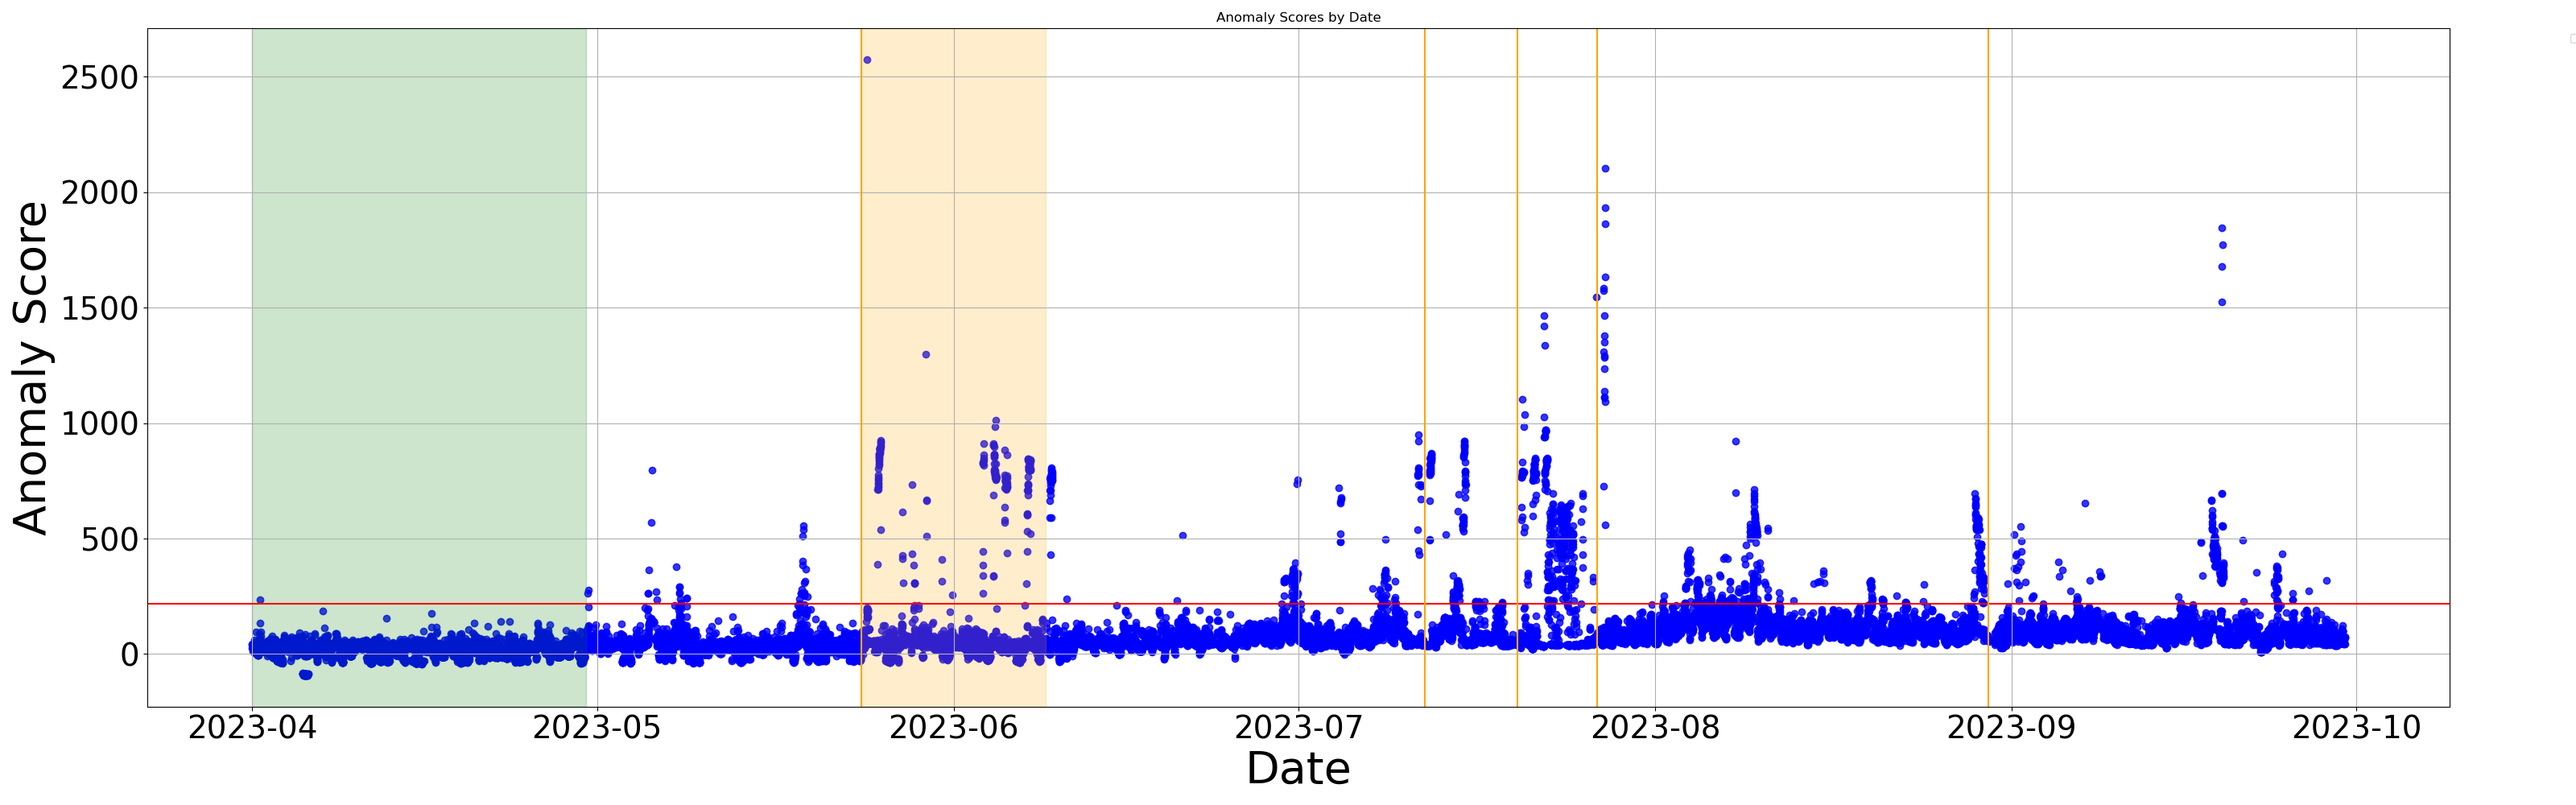
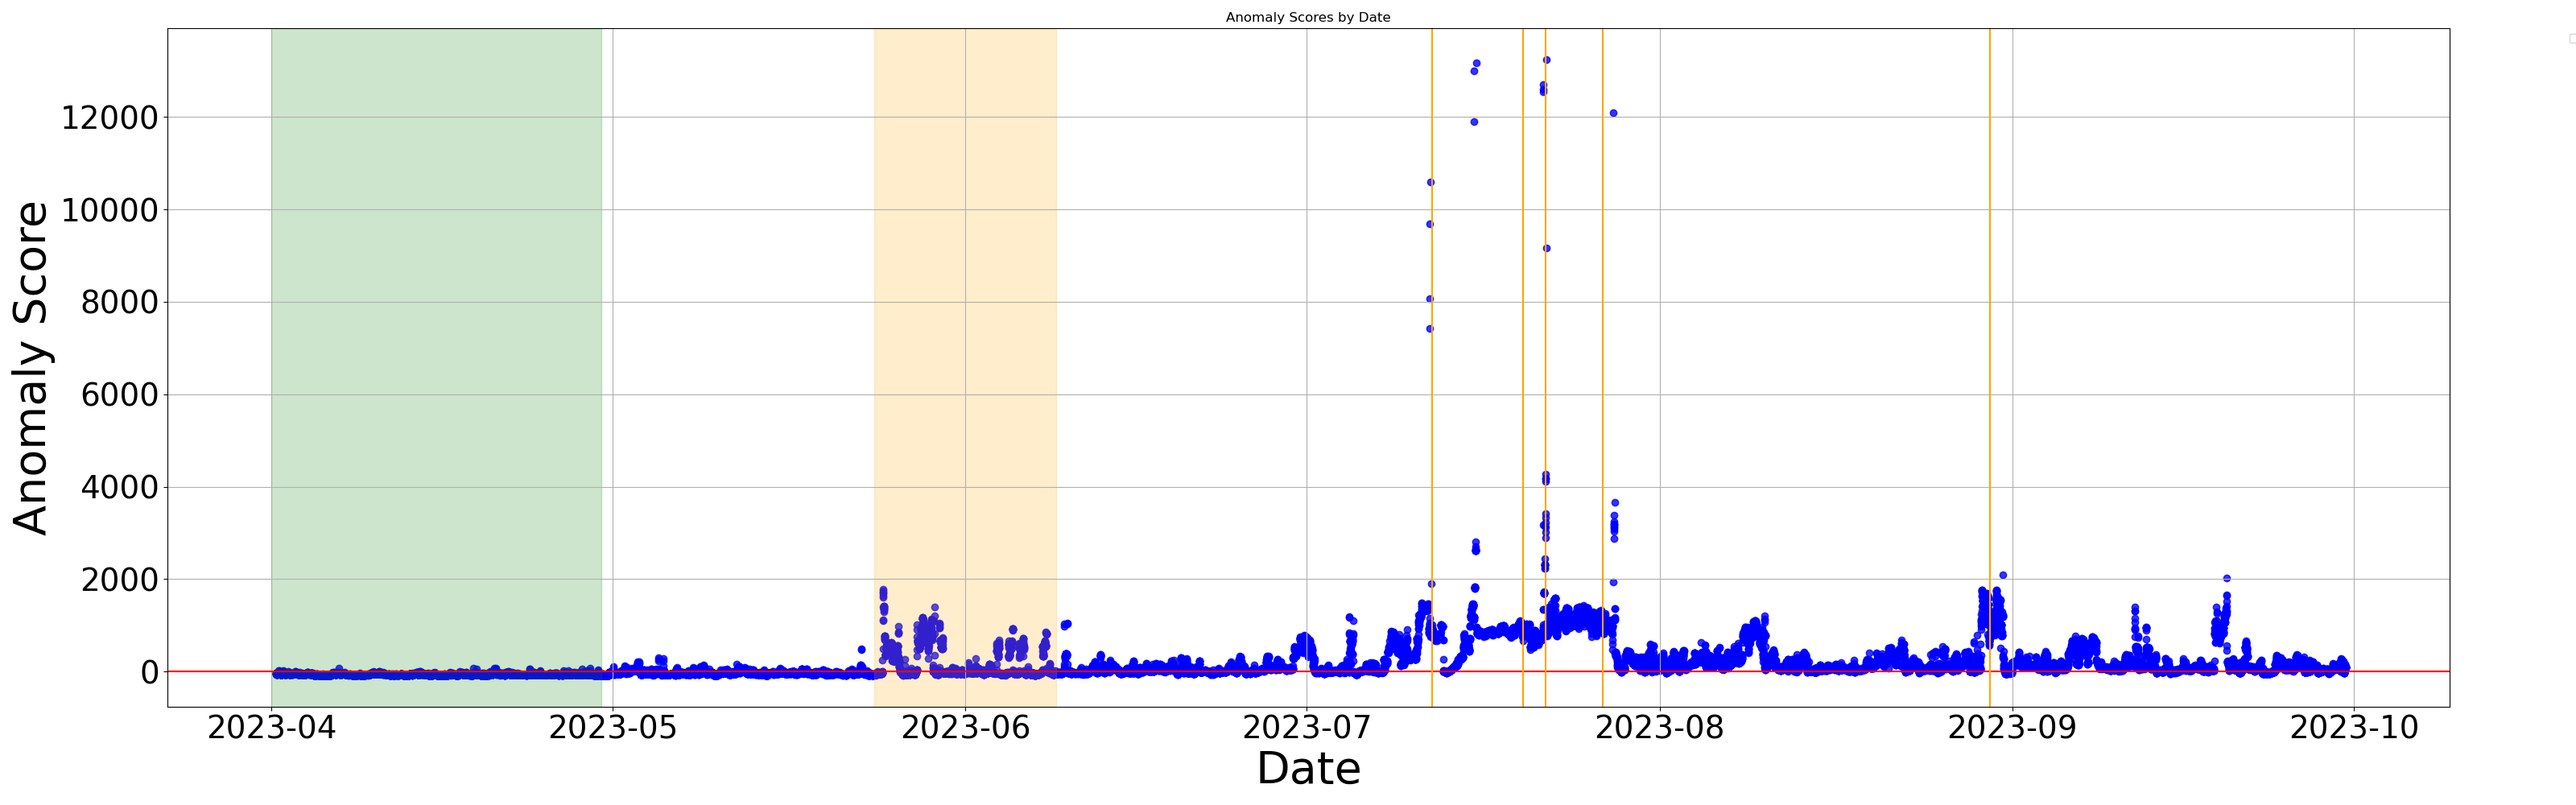
change files

diff --git a/tabnet-gmm.py b/tabnet-gmm.py
@@ -5,9 +5,10 @@ import os
 import gc
 import pickle
 from sklearn.mixture import GaussianMixture
-from util_module.data_to_plot import plot_by_date,calc_scores
+from util_module.data_to_plot import plot_by_date
+from util_module.calc_scores import calc_scores, calc_scores_with_windowing, calc_scores_windowing_once
 from util_module.end_info import show_info
-from util_module.tabnet.extract_features import data_to_TabNetFeatures
+from util_module.extract_features import data_to_TabNetFeatures
 from util_module.tabnet.build_exec_model import ExecModel
 from util_module.tabnet.set_config import set_config_file
 from util_module import SCADA_utils
@@ -19,7 +20,7 @@ device = torch.device('cuda' if torch.cuda.is_available() else 'cpu')
 
 # download data
 stampcol = "DateTime"
-frequency = '1S'
+frequency = '10M'
 sequence_length = 10
 threshold_line = 100 - 1
 dataset_name = "haenkaze"
@@ -55,16 +56,15 @@ X_test = X_test.astype(np.float16)
 
 
 # set execute model
-model_name = f"tabnet-self-attn2-{sequence_length}seq"
+model_name = f"tabnet-self-attn-{sequence_length}seq"
 #path_to_pretrained = "model/haenkaze/tabnet-pretrain-out2023-40dim"
-path_to_pretrained = f"{base_path}/model/haenkaze/tabnet-self-attn2-40dim-{sequence_length}seq"
+path_to_pretrained = f"model/haenkaze/tabnet-self-attn-40dim-{sequence_length}seq"
 config = set_config_file()
 exec_model = ExecModel(
     device=device,
     config=config,
     dataset_name=dataset_name,
     model_name=model_name,
-    X_train=X_train,
     path_to_pretrained=path_to_pretrained
 )
 out_dir = exec_model.out_dir
@@ -110,6 +110,7 @@ threshold = np.percentile(log_likelihood,threshold_line)
 #threshold = max(log_likelihood)
 del feature_train
 anomaly_score = -gmm.score_samples(feature_test)
+timestamp = timestamp[:len(anomaly_score)]
 #import pdb; pdb.set_trace()
 df = pd.DataFrame({"DATETIME": timestamp, "AnomalyScore": anomaly_score})
 if(not(pd.api.types.is_datetime64_any_dtype(df['DATETIME']))):
@@ -123,14 +124,13 @@ df = df.drop(remove_indices)
 #df['Date'] = df['DATETIME'].dt.date
 
 #import pdb; pdb.set_trace()
-timestamp = timestamp[:len(anomaly_score)]
 #img_path = out_dir + "/"+frequency+"_gmm_" + str(n_components) + "components.png"
 log_plot = False
 if log_plot:img_path = f"{out_dir}/{frequency}_log.png"
 else:img_path = f"{out_dir}/{frequency}.png"
 plot_by_date(log_plot,anomaly_score,timestamp,train_range,threshold,img_path,event_files)
-print(f"Threshold line: {threshold_line}%")
-calc_scores(df, threshold, threshold_line, frequency, [event_files[0]], score_file, before_max=7)
-print(f"result: {img_path}")
+print(f"Plot result: {img_path}")
 show_info(out_dir,exec_model)
-print(f"Score result: {score_file}")
+#calc_scores(df, threshold, threshold_line, frequency, [event_files[0]], score_file, before_max=7)
+#calc_scores_with_windowing(df, threshold, threshold_line, frequency, [event_files[0]], score_file, before_max=7, window='10min')
+calc_scores_windowing_once(df, threshold, threshold_line, frequency, [event_files[0]], score_file, before_max=7, window='10min')

diff --git a/util_module/tabnet/build_exec_model.py b/util_module/tabnet/build_exec_model.py
@@ -40,25 +40,25 @@ class ExecModel:
             self.path_to_pretrained = f'/mnt/iot-qnap5/miyauchi/model/{dataset_name}/{model_name}-{str(self.feature_dim)}dim'
             if self.mask_by_table:
                 self.path_to_pretrained += f"-{self.sequence_length}seq"
-        os.makedirs(self.path_to_pretrained, exist_ok=True)
-        
-        if(os.path.exists(self.path_to_pretrained+"/pretrained.pth")):
-            print(f"Load model from {self.path_to_pretrained}/pretrained.pth")
-            self.unsupervised_model=torch.load(self.path_to_pretrained+"/pretrained.pth",weights_only=False)
+            os.makedirs(self.path_to_pretrained, exist_ok=True)
+
+        if(os.path.exists(f"/mnt/iot-qnap5/miyauchi/{self.path_to_pretrained}/pretrained.pth")):
+            print(f"Load model from /mnt/iot-qnap5/miyauchi/{self.path_to_pretrained}/pretrained.pth")
+            self.unsupervised_model=torch.load(f"/mnt/iot-qnap5/miyauchi/{self.path_to_pretrained}/pretrained.pth",weights_only=False)
             if(self.refit):
-                self.set_log(filepath=self.path_to_pretrained + '/pretraining_refit.log')
+                self.set_log(filepath=f"/mnt/iot-qnap5/miyauchi/{self.path_to_pretrained}/pretraining_refit.log")
                 #self.unsupervised_model=self.set_unsupervised_model()
                 logging.info("Starting TabNet pretraining...")
                 self.fit_model()
                 logging.info("TabNet pretraining finished.")
-                torch.save(self.unsupervised_model, self.path_to_pretrained+"/pretrained_refit.pth")
+                torch.save(self.unsupervised_model, f"/mnt/iot-qnap5/miyauchi/{self.path_to_pretrained}/pretrained_refit.pth")
         else:
-            self.set_log(filepath=self.path_to_pretrained + '/pretraining.log')
+            self.set_log(filepath=f"/mnt/iot-qnap5/miyauchi/{self.path_to_pretrained}/pretraining.log")
             self.unsupervised_model=self.set_unsupervised_model()
             logging.info("Starting TabNet pretraining...")
             self.fit_model()
             logging.info("TabNet pretraining finished.")
-            torch.save(self.unsupervised_model, self.path_to_pretrained+"/pretrained.pth")
+            torch.save(self.unsupervised_model, f"/mnt/iot-qnap5/miyauchi/{self.path_to_pretrained}/pretrained.pth")
             # self.unsupervised_model.save_model(path_to_pretrained)
     
     # 事前学習モデルの設定
